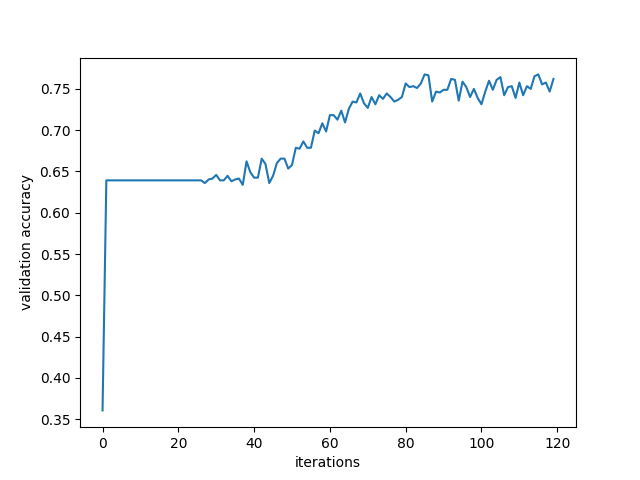
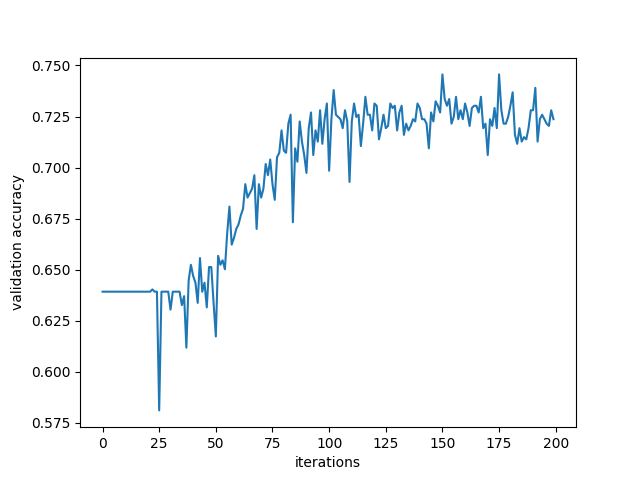
best model so far

diff --git a/Vishal_tests/base/smile_model.py b/Vishal_tests/base/smile_model.py
@@ -240,7 +240,7 @@ model.train()
 loss_fn = nn.CrossEntropyLoss().type(dtype)
 optimizer = optim.Adam(model.parameters(), lr=5e-5,weight_decay=0)
 print("start training")
-loss_history,acc_history,val_acc_history=train(train_loader,val_loader, model, loss_fn, optimizer, dtype,num_epochs=15, print_every=10)
+loss_history,acc_history,val_acc_history=train(train_loader,val_loader, model, loss_fn, optimizer, dtype,num_epochs=25, print_every=10)
 
 plt.plot(range(len(loss_history)),loss_history)
 plt.xlabel("iterations")
